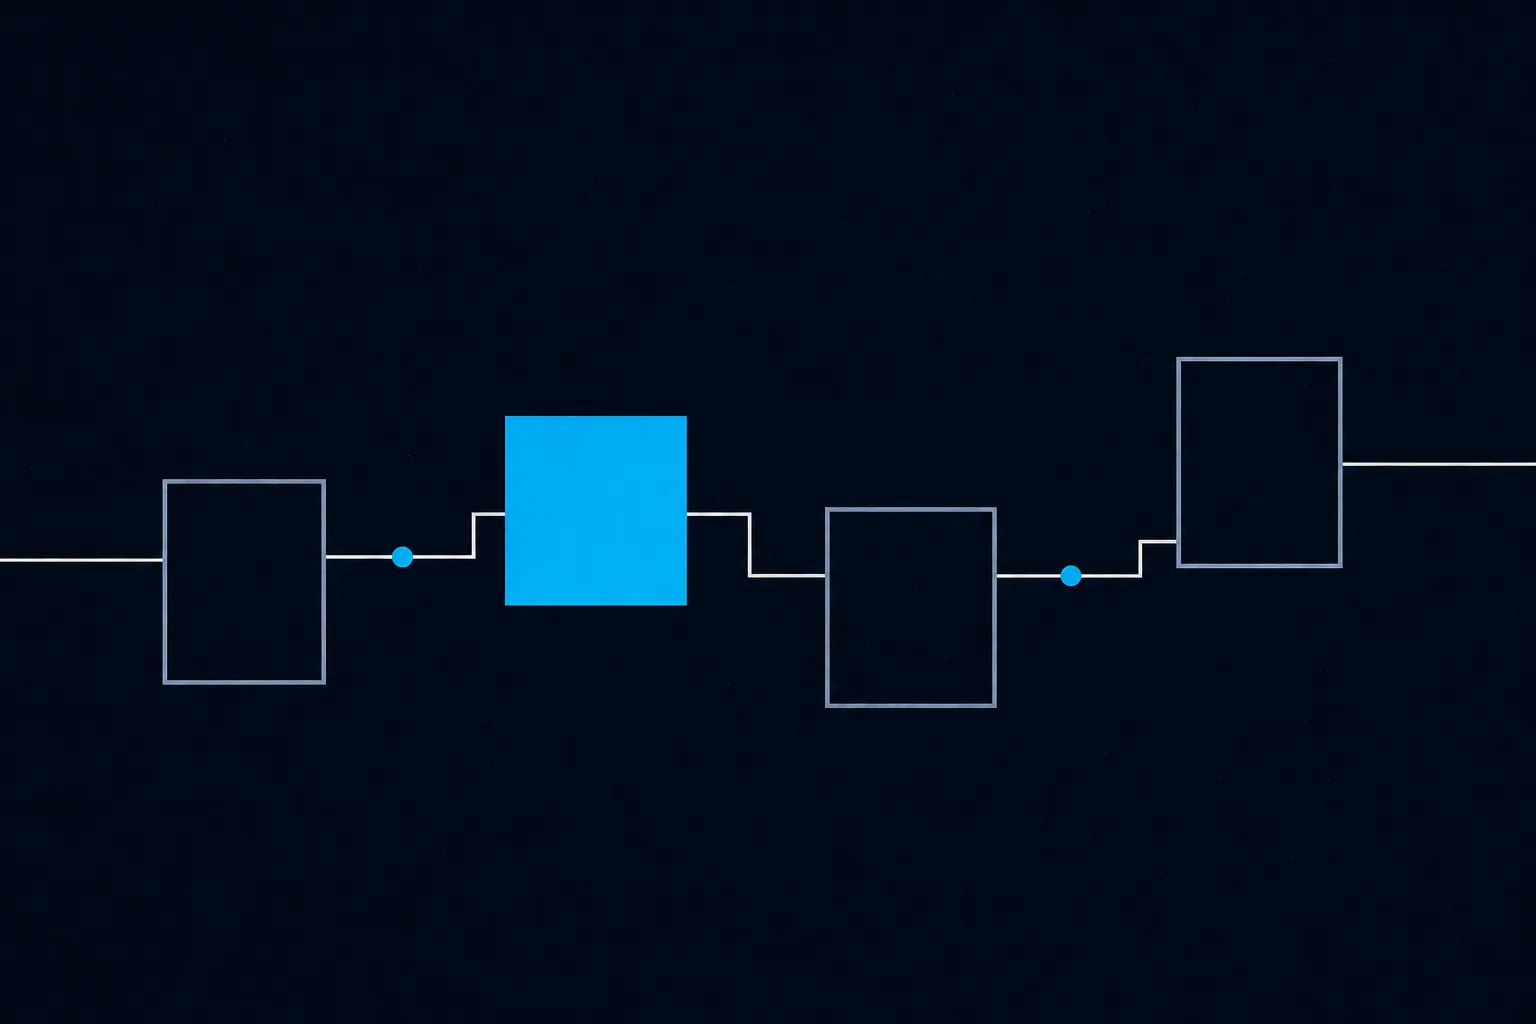
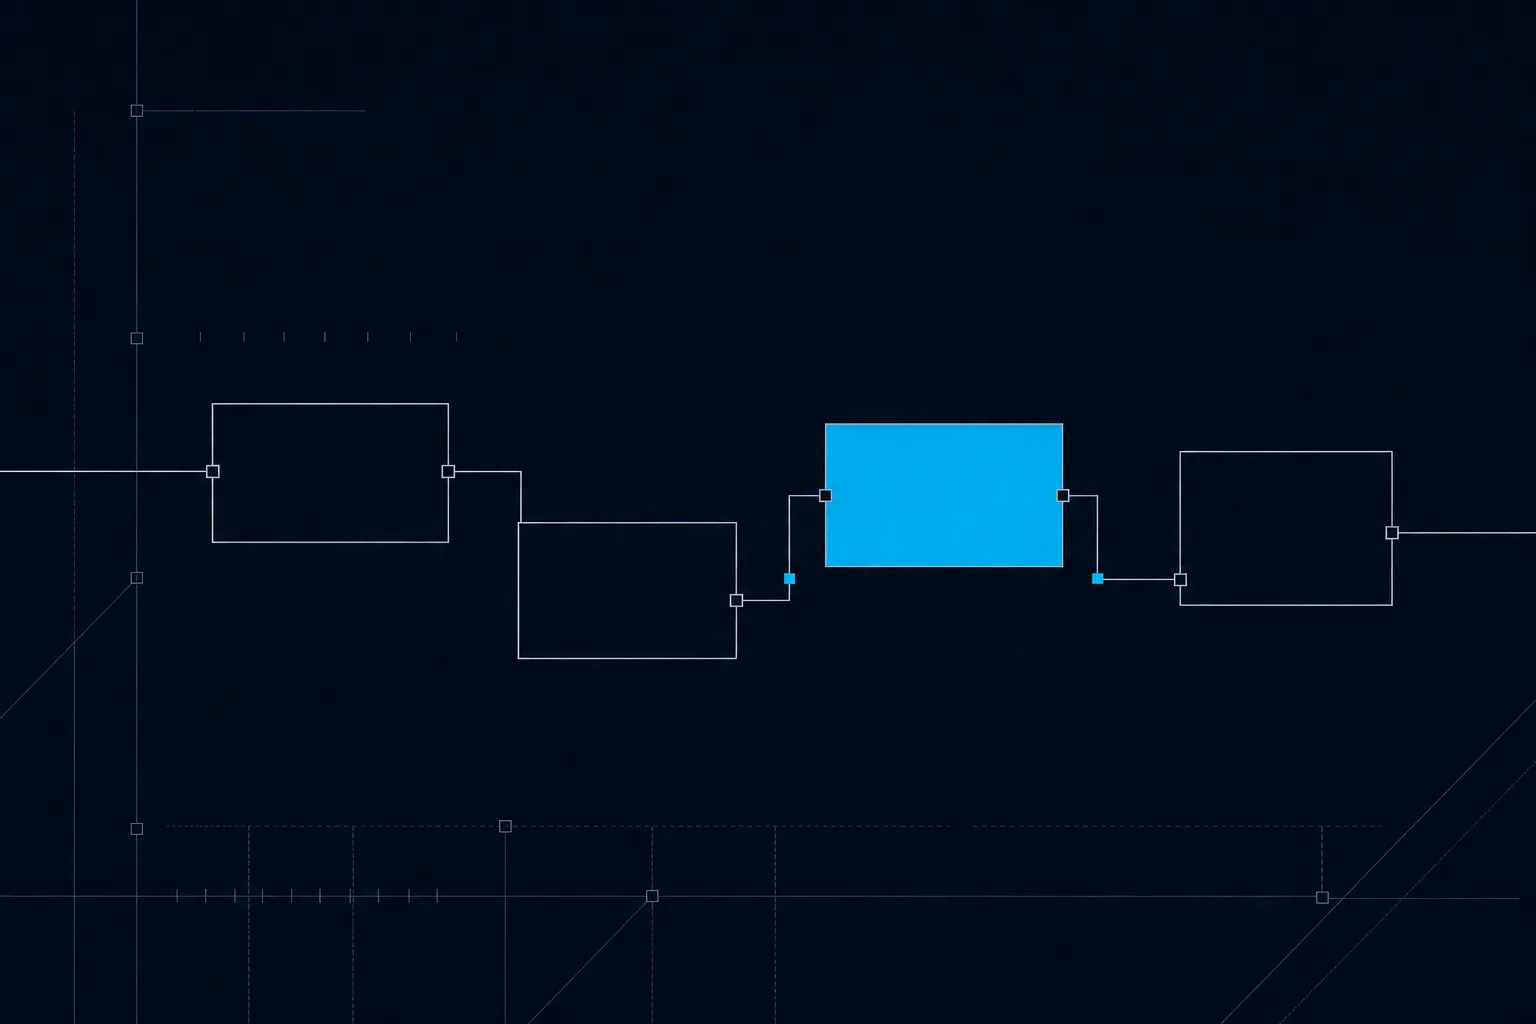
Redraw every generated image in the site's ledger language
Owner: the artwork looked basic and unrelated to the site. All three generator
styles now share one vocabulary - left-aligned headline with a cyan full stop,
indexed columns using the .eyebrow device, hairline separators instead of boxed
cards, square corners, cyan under five percent, depth from line weight. Motifs
read as precision schematics cropped by the frame rather than flat shape
compositions.

Two owner corrections shaped it. Banning icons outright made the model draw the
same meaningless scribble in every column, so each slot prompt now specifies its
own diagram per item and the style brief requires them to differ. And icons and
simple human figures are allowed after all, where they make the subject clearer
- drafted in the same thin line work, never rounded clip art and never a face
standing in for a real team member.

Regenerated at high quality: 5 dark infographics, 12 course and service motifs,
and all 6 in-article infographics on white paper.

Changed region(s): [[0.0, 0.3438, 1.0, 0.7188]]

diff --git a/CLAUDE.md b/CLAUDE.md
@@ -914,6 +914,27 @@ infographic.
   dark canvas. Use it for infographics on marketing pages; `paper` stays for
   in-article ones on white, and the default text-free style for covers and
   motifs.
+
+**All three styles were rewritten on 4 Sep 2026 into the site's own ledger
+language** (owner: *"currently look very basic… make them cooler and more
+aligned with the website"*). The shared vocabulary is now: left-aligned
+headline ending in a cyan full stop, indexed columns (`01` in cyan plus a short
+cyan rule, exactly the `.eyebrow` device), hairline separators instead of boxed
+cards, square corners only, cyan rationed to under 5% of the frame, and depth
+from line weight rather than fill. Motifs read as precision schematics cropped
+by the frame, not as flat shape compositions.
+
+**Two corrections came from the owner while tuning it, both worth keeping:**
+1. *"why are they simple lines; make them relevant to the subject."* Banning
+   icons outright made the model draw the same meaningless scribble in every
+   column. Every slot prompt now describes **its own diagram per item** — a
+   funnel, a struck-out keyword row, a ranked list — and the style brief
+   requires the drawings to differ from each other.
+2. *"Icons and people are okay as long as they fit the overall style,
+   especially when making the subject more clear."* So recognisable icons and
+   simple human figures ARE allowed, drafted in the same thin geometric line
+   work. They must never be soft rounded clip art, and never a portrait-like
+   face standing in for a real team member — that rule is unchanged.
 - **`.infographic` background is `var(--card)`, not `#fff`.** Hard-coding white
   punched a light slab into the dark canvas — the artifact `.img--card` was
   deleted for. The token resolves to white inside `.paper` and `#00152c`
